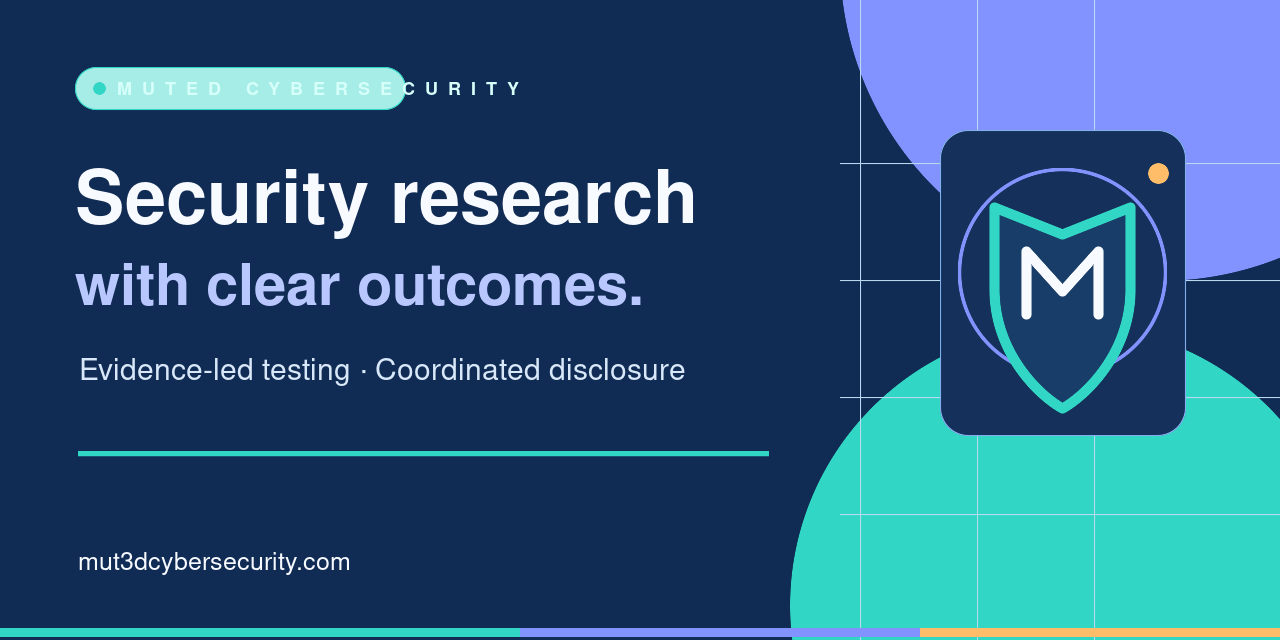
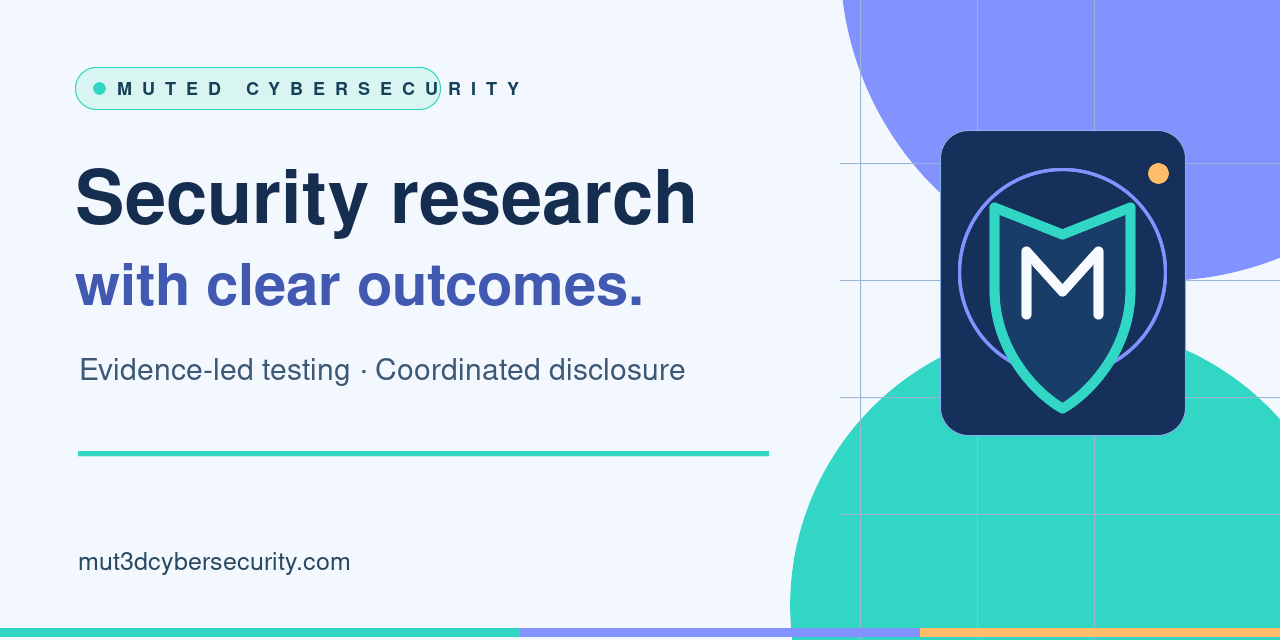
Brighten profile graphics for light and dark GitHub themes

diff --git a/brand/README.md b/brand/README.md
@@ -19,14 +19,15 @@ Ready-to-use wording is available in [attribution examples](attribution.md).
 
 | Element | Value | Intended use |
 | --- | --- | --- |
-| Deep navy | `#102B54` | Main background |
+| Cloud white | `#F3F8FF` | Main graphic background |
+| Deep navy | `#102B54` | Text and illustrated panels |
 | Teal | `#32D6C4` | Research, verification, and key highlights |
 | Periwinkle | `#8292FF` | Supporting shapes and process accents |
 | Amber | `#FFBD69` | Templates and coordination accents |
-| Ice white | `#F7FAFF` | Main text on navy |
-| Soft blue | `#CBDCF0` | Secondary text on navy |
+| Ink blue | `#152D4E` | Main text on light graphics |
+| Soft blue | `#CBDCF0` | Secondary text on dark panels |
 
-Typography uses common sans-serif fonts, with clear headings and short paragraphs. Graphics use simple geometric shapes so they remain legible at small sizes.
+Typography uses common sans-serif fonts, with clear headings and short paragraphs. The light backgrounds are built into the image assets, so the illustrations remain readable in both GitHub light and dark themes. Graphics use simple geometric shapes so they remain legible at small sizes.
 
 ## Assets
 
